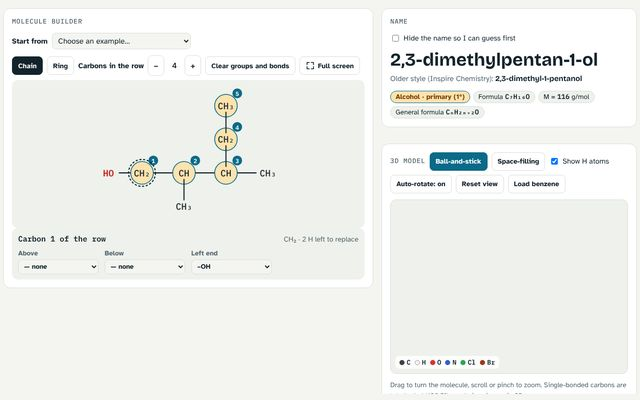
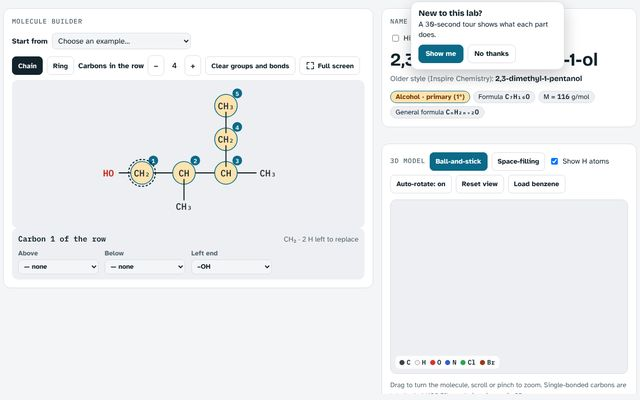
Organic Naming: Exercise screen, name a formula or draw a name, step by step in the lab
- Type a condensed formula (CH3CH(CH3)CH(OH)CH3) to name it, or a name (2-ethylbutane) to draw it; or pick any class structure (rings, benzene)
- Formula reader checks each carbon's H count; name reader handles new and older styles (but-2-ene, 2-butene, 2-methyl-2-butanol)
- Solve it in the lab: build it, family, longest chain (highlighted), numbering, groups, type the name and check; wrong names get the correct one and why

Claude-Session: https://claude.ai/code/session_01EJxk2nM6avKJzUWi38t4jE

Changed region(s): [[0.625, 0.0, 0.9062, 0.21]]

diff --git a/organic-naming-lab.html b/organic-naming-lab.html
@@ -77,6 +77,9 @@ p{margin:0}
 .tabp{display:flex;flex-direction:column;gap:16px}
 .lab{display:grid;grid-template-columns:minmax(0,1.45fr) minmax(0,1fr);gap:16px;align-items:start}
 @media (max-width:900px){.lab{grid-template-columns:minmax(0,1fr)}}
+.exhead{display:flex;align-items:center;justify-content:space-between;gap:12px;flex-wrap:wrap;margin-bottom:12px}.exhead h2{margin:0;font:800 1.4rem/1.2 var(--display)}
+.exin{display:flex;flex-direction:column;gap:6px;font-weight:700}.exin input{font:600 1.2rem var(--mono);padding:10px 12px;border:1.5px solid var(--line);border-radius:10px;background:var(--sunk);color:var(--ink);width:100%}
+#p-ex .card+.card{margin-top:14px}#exPick{max-width:100%}.exqs{margin:0;padding-left:1.4em;display:flex;flex-direction:column;gap:6px}#exMol{max-height:240px}
 .card{background:var(--surface);border:1px solid var(--line);border-radius:14px;padding:16px;display:flex;flex-direction:column;gap:12px;min-width:0}
 .card h3{font-family:var(--mono);font-size:.8125rem;font-weight:500;letter-spacing:.09em;text-transform:uppercase;color:var(--muted)}
 .caption{font-size:.87rem;color:var(--muted)}
@@ -471,9 +474,20 @@ body.fs-on{overflow:hidden}
     </div>
   </div></section>
 
+  <section class="screen solo" id="p-ex" data-screens="ex" hidden><div class="solo-in">
+    <div class="exhead"><h2>Exercise</h2><div class="row"><button class="btn" type="button" id="exEg">Example</button><button class="btn primary" type="button" id="exSolve"><svg viewBox="0 0 24 24" width="18" height="18" aria-hidden="true"><path d="M8 5l11 7-11 7z" fill="currentColor"/></svg>Solve it in the lab</button></div></div>
+    <div class="card">
+      <label class="exin"><span>Type a condensed formula to name it, or a name to draw it</span><input id="exIn" type="text" autocomplete="off" spellcheck="false" autocapitalize="off" value="CH3CH(CH3)CH(OH)CH3"></label>
+      <div class="chips" id="exEgs" aria-label="Examples"></div>
+      <select id="exPick" aria-label="Pick a structure from the class list"></select>
+      <div id="exMsg" class="verdict wait" aria-live="polite"></div>
+    </div>
+    <div class="card"><h3>Your exercise</h3><p id="exText" style="margin:0"></p><div class="molwrap"><svg class="mol" id="exMol" role="img" aria-label="The structure the lab read from your exercise"></svg></div><ol id="exQs" class="exqs"></ol></div>
+  </div></section>
+
 </main>
   <p class="vh">Names follow IUPAC rules as taught in school: the parent chain is the longest chain that contains the main functional group and any C=C or C≡C, numbered so that the main group (then the multiple bond, then the substituents) gets the lowest numbers; substituents are listed in alphabetical order, ignoring di-, tri- and tetra-. Both styles are shown and accepted, for example but-2-ene (current IUPAC) and 2-butene (older style used in Inspire Chemistry). Esters are named alkyl + alkanoate (propan-2-yl ethanoate), ethers as alkoxyalkanes (2-methoxypropane), and groups on nitrogen take the locant N (N-methylethanamide). In rings the ring is the parent (methylcyclohexane, 2-methylphenol); when a chain is longer than the ring, the older chain-as-parent name is also accepted, and benzene common names (toluene, o-, m-, p-xylene) are shown too. Test results follow Mr Khaled's identification table.</p>
-<script>window.LAB = { screens: [ { id: 'build', name: 'Build', tab: 'build' }, { id: 'quiz', name: 'Name it', tab: 'quiz' }, { id: 'iso', name: 'Isomers', tab: 'iso' }, { id: 'ester', name: 'Esters', tab: 'ester' }, { id: 'lab', name: 'Tests', tab: 'lab' } ], onScreen: function(){ setTimeout(function(){ window.dispatchEvent(new Event('resize')); }, 30); } };</script>
+<script>window.LAB = { screens: [ { id: 'build', name: 'Build', tab: 'build' }, { id: 'quiz', name: 'Name it', tab: 'quiz' }, { id: 'iso', name: 'Isomers', tab: 'iso' }, { id: 'ester', name: 'Esters', tab: 'ester' }, { id: 'lab', name: 'Tests', tab: 'lab' }, { id: 'ex', name: 'Exercise' } ], onScreen: function(){ setTimeout(function(){ window.dispatchEvent(new Event('resize')); }, 30); } };</script>
 
 
 <script>
@@ -1756,9 +1770,204 @@ document.querySelectorAll('.themeBtn').forEach(function(b){ b.addEventListener('
 }); });
 if (window.matchMedia) { try { window.matchMedia('(prefers-color-scheme: dark)').addEventListener('change', paintTheme); } catch (e) {} }
 
+
+/* =========== EXERCISE: name a formula, or draw a name, step by step in the lab (tour.js) =========== */
+var EXO = { mode: null, st: null, R: null, input: '', desc: [], read: [] };
+var exHi = false, bHiOld = build.opt.highlight;
+build.opt.highlight = function(){ return exHi || bHiOld(); };
+var SUBN = { methyl: 'CH3', ethyl: 'C2H5', propyl: 'C3H7', butyl: 'C4H9', isopropyl: 'iPr', fluoro: 'F', chloro: 'Cl', bromo: 'Br', iodo: 'I', hydroxy: 'OH', amino: 'NH2', oxo: 'O' };
+var GWORD = { CH3: 'a methyl group –CH₃', C2H5: 'an ethyl group –C₂H₅', C3H7: 'a propyl group –C₃H₇', C4H9: 'a butyl group –C₄H₉', iPr: 'an isopropyl group –CH(CH₃)₂', F: '–F', Cl: '–Cl', Br: '–Br', I: '–I', OH: '–OH', NH2: '–NH₂', O: '=O' };
+var MULTN = { di: 2, tri: 3, tetra: 4 };
+function exPlace(n, groups){
+  // groups: [[carbon 1..n, group]] → builder state slots; =O goes above, end groups on the ends first
+  var st = emptyState(n), err = null;
+  groups.forEach(function(g){
+    var i = g[0] - 1, G = g[1]; if (i < 0 || i >= n){ err = 'C' + g[0] + ' does not exist: the chain has ' + n + ' carbon' + (n > 1 ? 's' : '') + '.'; return; }
+    var s = st.slots[i], end = i === 0 ? 'l' : i === n - 1 ? 'r' : null, order = G === 'O' ? ['u', 'd', end] : end ? [end, 'u', 'd'] : ['u', 'd'];
+    if (n === 1) order = G === 'O' ? ['u', 'd', 'l', 'r'] : ['l', 'r', 'u', 'd'];
+    var k = order.filter(function(x){ return x && !s[x]; })[0];
+    if (!k){ err = 'Too many groups on C' + g[0] + ': a carbon has only 4 bonds.'; return; }
+    s[k] = G;
+  });
+  return { st: st, err: err };
+}
+function exParseName(raw){
+  var s = String(raw).toLowerCase().replace(/[‐-―−]/g, '-').replace(/\s+acid$/, 'acid').replace(/\s+/g, '').replace(/\((?:1-methylethyl)\)|1-methylethyl|\(propan-2-yl\)|propan-2-yl/g, 'isopropyl');
+  if (!s) return { err: 'Type a name or a formula.' };
+  if (/cyclo|benz|phen|anilin/.test(s)) return { err: 'For rings and benzene, pick the structure from the class list below.' };
+  var stems = /(meth|eth|prop|but|pent|hex|hept|oct|non|dec)/g, m, last = null;
+  while ((m = stems.exec(s))){ if (m[1] === 'non' && s[m.index - 1] === 'a') continue; if (!/^yl/.test(s.slice(m.index + m[1].length))) last = { i: m.index, stem: m[1] }; }
+  if (!last) return { err: 'I cannot find the parent chain (meth-, eth-, prop-, but-, …) in this name.' };
+  var n = STEM.indexOf(last.stem), pre = s.slice(0, last.i).replace(/-$/, ''), r = s.slice(last.i + last.stem.length), read = [];
+  // older style: "2-methyl-2-butanol", "2-butene": numbers left just before the parent belong to the ending
+  var pend = []; var pm = /(?:^|-)([\d,]+)$/.exec(pre); if (pm){ pend = pm[1].split(',').map(Number); pre = pre.slice(0, pre.length - pm[0].length); }
+  read.push(['<b>' + last.stem + '-</b>', n + ' carbons in the main chain']);
+  var i = 0, take = function(re){ var x = re.exec(r.slice(i)); if (x){ i += x[0].length; return x; } return null; }, D = [], T = [];
+  take(/^a(?=-[\d,]+-(?:di|tri))/);
+  while (true){
+    var lm = take(/^-?([\d,]+)-(?=(?:di|tri)?(?:en|yn))/), u = take(/^(di|tri)?(en|yn)/);
+    if (!u){ if (lm) return { err: 'Numbers must come before -ene or -yne.' }; break; }
+    var k = MULTN[u[1]] || 1, locs = lm ? lm[1].split(',').map(Number) : pend.length ? pend.splice(0, k) : k === 1 ? [1] : null;
+    if (!locs || locs.length !== k) return { err: 'The number of locants does not match ' + (u[1] || '') + u[2] + 'e.' };
+    locs.forEach(function(L){ (u[2] === 'en' ? D : T).push(L); });
+    read.push(['<b>-' + locs.join(',') + '-' + (u[1] || '') + u[2] + 'e</b>', (u[2] === 'en' ? 'C=C double bond' : 'C≡C triple bond') + (k > 1 ? 's' : '') + ' starting at C' + locs.join(' and C')]);
+  }
+  if (!D.length && !T.length && !take(/^an/)) return { err: 'I cannot read the ending “' + r + '”. Try e.g. butane, but-2-ene, butan-2-ol.' };
+  var groups = [], ePart = r.slice(i);
+  if (/^e$/.test(ePart) || ePart === ''){ if (!D.length && !T.length) read.push(['<b>-ane</b>', 'only single C–C bonds']); }
+  else {
+    i += (r.slice(i)[0] === 'e' && !/^e(ne|al)/.test(r.slice(i))) ? 1 : 0;
+    var sl = take(/^-?([\d,]+)-/), sf = take(/^(di|tri)?(ol|al|one|oicacid|amine)$/);
+    if (!sf) return { err: 'I cannot read the ending “' + r + '”.' };
+    var k2 = MULTN[sf[1]] || 1, kind = sf[2], locs2 = sl ? sl[1].split(',').map(Number) : pend.length ? pend.splice(0, k2) : null;
+    if (!locs2){ if (kind === 'al' || kind === 'oicacid') locs2 = k2 === 2 ? [1, n] : [1]; else if (kind === 'one') locs2 = k2 === 1 ? [2] : null; else locs2 = k2 === 1 ? [1] : k2 === 2 && n === 2 ? [1, 2] : null; }
+    if (!locs2 || locs2.length !== k2) return { err: 'Add the numbers for the -' + kind.replace('oicacid', 'oic acid') + ' groups.' };
+    var lab = { ol: ['–OH', 'alcohol'], al: ['–CHO', 'aldehyde'], one: ['C=O', 'ketone'], oicacid: ['–COOH', 'carboxylic acid'], amine: ['–NH₂', 'amine'] }[kind];
+    locs2.forEach(function(L){ if (kind === 'ol') groups.push([L, 'OH']); else if (kind === 'amine') groups.push([L, 'NH2']); else if (kind === 'one') groups.push([L, 'O']); else { groups.push([L, 'O']); if (kind === 'oicacid') groups.push([L, 'OH']); } });
+    read.push(['<b>-' + (sl || locs2.length > 1 ? locs2.join(',') + '-' : '') + (sf[1] || '') + kind.replace('oicacid', 'oic acid') + '</b>', lab[1] + ': ' + lab[0] + ' on C' + locs2.join(' and C')]);
+  }
+  if (pend.length) return { err: 'I do not know where the number ' + pend.join(',') + ' belongs.' };
+  // prefixes: "3-ethyl-2-methyl", "2,3-dimethyl", "1-bromo-2-chloro", "methyl"
+  if (pre){
+    var toks = pre.split('-'), loc = null;
+    for (var t = 0; t < toks.length; t++){
+      var tk = toks[t]; if (!tk) continue;
+      if (/^[\d,]+$/.test(tk)){ if (loc) return { err: 'Two sets of numbers in a row: ' + loc.join(',') + ' and ' + tk + '.' }; loc = tk.split(',').map(Number); continue; }
+      var j = 0;
+      while (j < tk.length){
+        var mm = /^(di|tri|tetra)?(methyl|ethyl|propyl|butyl|isopropyl|fluoro|chloro|bromo|iodo|hydroxy|amino|oxo)/.exec(tk.slice(j));
+        if (!mm) return { err: 'I do not know the group “' + tk.slice(j) + '”.' };
+        j += mm[0].length; var cnt = MULTN[mm[1]] || 1, L2 = loc || (cnt === 1 ? [/^(methyl|ethyl|propyl|butyl|isopropyl)$/.test(mm[2]) ? 2 : 1] : null); loc = null;
+        if (!L2 || L2.length !== cnt) return { err: (mm[1] || '') + mm[2] + ' needs ' + cnt + ' number' + (cnt > 1 ? 's' : '') + ' in front of it.' };
+        L2.forEach(function(L){ groups.push([L, SUBN[mm[2]]]); });
+        read.push(['<b>' + L2.join(',') + '-' + (mm[1] || '') + mm[2] + '</b>', GWORD[SUBN[mm[2]]] + ' on C' + L2.join(' and C')]);
+      }
+    }
+    if (loc) return { err: 'The numbers ' + loc.join(',') + ' have no group after them.' };
+  }
+  if (n < 1 || n > 10) return { err: 'The lab can draw chains of 1 to 10 carbons.' };
+  var bad = D.concat(T).filter(function(L){ return L < 1 || L >= n; }); if (bad.length) return { err: 'A multiple bond at C' + bad[0] + ' does not fit in a chain of ' + n + ' carbons.' };
+  var P = exPlace(n, groups); if (P.err) return { err: P.err };
+  D.forEach(function(L){ P.st.bonds[L - 1] = 2; }); T.forEach(function(L){ P.st.bonds[L - 1] = 3; });
+  var G = toGraph(P.st), over = G.atoms.slice(0, n).map(function(a, k){ return hCount(a) < 0 ? k + 1 : 0; }).filter(Boolean);
+  if (over.length) return { err: 'C' + over[0] + ' would have more than 4 bonds. Check the name.' };
+  return { st: P.st, read: read };
+}
+var BRANCH = { CH3: 'CH3', C2H5: 'C2H5', CH2CH3: 'C2H5', C3H7: 'C3H7', CH2CH2CH3: 'C3H7', 'CH(CH3)2': 'iPr', C4H9: 'C4H9', CH2CH2CH2CH3: 'C4H9', OH: 'OH', HO: 'OH', NH2: 'NH2', H2N: 'NH2', F: 'F', Cl: 'Cl', Br: 'Br', I: 'I', '=O': 'O', O: 'O' };
+function exParseFormula(raw){
+  var s = String(raw).replace(/[₀-₉]/g, function(c){ return '0123456789'['₀₁₂₃₄₅₆₇₈₉'.indexOf(c)]; }).replace(/\s+/g, '').replace(/[−–—‐]/g, '-').replace(/≡/g, '#').replace(/-/g, '');
+  var units = [], bonds = [], lead = [], i = 0, nextB = 1, err = null;
+  function paren(){ // "(…)" with an optional count after it
+    var depth = 0, j = i; for (; j < s.length; j++){ if (s[j] === '(') depth++; else if (s[j] === ')'){ depth--; if (!depth) break; } }
+    if (depth) { err = 'A bracket is not closed.'; return null; }
+    var inner = s.slice(i + 1, j); i = j + 1; var cm = /^\d+/.exec(s.slice(i)), c = cm ? +cm[0] : 1; if (cm) i += cm[0].length;
+    var g = BRANCH[inner]; if (!g){ err = 'I do not know the branch (' + inner + '). Use CH3, C2H5, CH(CH3)2, OH, Cl, NH2, =O …'; return null; }
+    var o = []; for (var k = 0; k < c; k++) o.push(g); return o;
+  }
+  function inline(){ // groups written right after a carbon: OH, Cl, Br3, NH2, O (C=O), OOH (COOH)
+    var x = s.slice(i), mm;
+    if ((mm = /^OOH/.exec(x))){ i += 3; return ['O', 'OH']; }
+    if ((mm = /^OH/.exec(x))){ i += 2; return ['OH']; }
+    if ((mm = /^NH2/.exec(x))){ i += 3; return ['NH2']; }
+    if ((mm = /^(Cl|Br|F|I)(\d*)/.exec(x))){ i += mm[0].length; var o = [], c = mm[2] ? +mm[2] : 1; for (var k = 0; k < c; k++) o.push(mm[1]); return o; }
+    if ((mm = /^O(?!H)/.exec(x))){ i += 1; return ['O']; }
+    return null;
+  }
+  while (i < s.length && !err){
+    var x = s.slice(i), mm;
+    if (x[0] === '=' || x[0] === '#'){ nextB = x[0] === '=' ? 2 : 3; i++; continue; }
+    if (x[0] === '(' ){ var g0 = paren(); if (!g0) break; if (units.length) units[units.length - 1].g = units[units.length - 1].g.concat(g0); else lead = lead.concat(g0); continue; }
+    if ((mm = /^C(?!l)(H(\d*))?/.exec(x))){
+      i += mm[0].length; if (units.length) bonds.push(nextB); else if (nextB !== 1){ err = 'A bond sign cannot come first.'; break; } nextB = 1;
+      var u = { h: mm[1] ? (mm[2] ? +mm[2] : 1) : 0, g: [] }; if (!units.length){ u.g = lead; lead = []; } units.push(u);
+      var more; while ((more = inline())) u.g = u.g.concat(more);
+      continue;
+    }
+    if (!units.length && (mm = /^(HO|H2N|Cl|Br|F|I|H)/.exec(x))){ i += mm[0].length; if (mm[1] === 'H') lead.push('H'); else lead.push(BRANCH[mm[1]]); continue; }
+    err = 'I cannot read “' + x.slice(0, 6) + '”. Write it like CH3CH(CH3)CH2OH.'; break;
+  }
+  if (err) return { err: err };
+  if (!units.length) return { err: 'There is no carbon in this formula.' };
+  if (units.length > 10) return { err: 'The lab can draw chains of up to 10 carbons.' };
+  var n = units.length, groups = [], extraH = [];
+  units.forEach(function(u, k){ u.g.forEach(function(G){ if (G === 'H') extraH.push(k); else groups.push([k + 1, G]); }); });
+  extraH.forEach(function(k){ units[k].h++; });
+  var P = exPlace(n, groups); if (P.err) return { err: P.err };
+  bonds.forEach(function(b, k){ P.st.bonds[k] = b; });
+  var G = toGraph(P.st);
+  for (var k = 0; k < n; k++){ var h = hCount(G.atoms[k]); if (h < 0) return { err: 'Carbon ' + (k + 1) + ' has more than 4 bonds. Check the formula.' }; if (h !== units[k].h) return { err: 'Carbon ' + (k + 1) + ' should be written ' + cLabel(h) + ' (it has ' + h + ' H), not ' + cLabel(units[k].h) + '. Check the formula.' }; }
+  var desc = ['<b>' + n + '</b> carbon' + (n > 1 ? 's' : '') + ' in the row'];
+  bonds.forEach(function(b, k){ if (b > 1) desc.push((b === 2 ? 'a double' : 'a triple') + ' bond between C' + (k + 1) + ' and C' + (k + 2)); });
+  groups.forEach(function(g){ if (!(g[1] === 'OH' && groups.some(function(h){ return h[0] === g[0] && h[1] === 'O'; }) && false)) desc.push(GWORD[g[1]] + ' on C' + g[0]); });
+  return { st: P.st, desc: desc };
+}
+var EXEG = ['CH3CH(CH3)CH2CH3', 'CH3CH2CH(OH)CH3', 'CH2=CHCH(CH3)2', 'CH3COCH2CH3', 'CH3CH(Cl)COOH', '2-methylbut-2-ene', '3-ethyl-2-methylpentane', '2-ethylbutane'];
+$('exEgs').innerHTML = EXEG.map(function(t){ return '<button class="btn small" type="button" data-eg="' + t + '">' + (/[A-Z]/.test(t) ? t.replace(/(\d)/g, function(d){ return sub(d); }) : t) + '</button>'; }).join('');
+$('exEgs').addEventListener('click', function(e){ var b = e.target.closest('[data-eg]'); if (!b) return; $('exIn').value = b.getAttribute('data-eg'); $('exPick').value = ''; exRead(); });
+(function(){ var html = '<option value="">Or pick a structure from the class list (rings and benzene too)…</option>';
+  Object.keys(PRESET_LABEL).forEach(function(c){ html += '<optgroup label="' + PRESET_LABEL[c] + '">' + BANK.map(function(b, i){ return b.cat === c ? '<option value="' + i + '">' + esc(formulaText(b.st)) + '</option>' : ''; }).join('') + '</optgroup>'; });
+  $('exPick').innerHTML = html; })();
+function formulaText(st){ var f = formula(toGraph(st)); return f.text + ' · ' + family(nameMolecule(st)).label; }
+$('exPick').addEventListener('change', function(){ if (this.value !== '') $('exIn').value = ''; exRead(); });
+$('exIn').addEventListener('input', function(){ if (this.value) $('exPick').value = ''; exRead(); });
+$('exIn').addEventListener('keydown', function(e){ if (e.key === 'Enter') exSolve(); });
+function descState(st){
+  var d = [];
+  if (st.ring) d.push(st.arom ? 'Shape: <b>Ring</b> → benzene' : 'Shape: <b>Ring</b> of ' + st.n + ' carbons');
+  else d.push('<b>' + st.n + '</b> carbon' + (st.n > 1 ? 's' : '') + ' in the row');
+  if (!st.arom) st.bonds.forEach(function(b, k){ if (b > 1) d.push((b === 2 ? 'a double' : 'a triple') + ' bond between C' + (k + 1) + ' and C' + ((k + 1) % st.n + 1)); });
+  st.slots.forEach(function(sl, k){ Object.keys(sl).forEach(function(x){ d.push(GWORD[sl[x]] + ' on C' + (k + 1)); }); });
+  return d;
+}
+function isFormula(t){ return /C/.test(t) && !/[a-z]{3,}/.test(t.replace(/Cl|Br/g, '')); }
+function exRead(){
+  var t = $('exIn').value.trim(), pk = $('exPick').value, msg = $('exMsg'), P;
+  EXO.mode = null;
+  if (pk !== ''){ P = { st: clone(BANK[+pk].st) }; P.desc = descState(P.st); EXO.mode = 'name'; }
+  else if (!t){ msg.className = 'verdict wait'; msg.textContent = 'Type a formula or a name, or pick one.'; $('exText').textContent = ''; $('exQs').innerHTML = ''; $('exMol').innerHTML = ''; return null; }
+  else if (isFormula(t)){ P = exParseFormula(t); EXO.mode = 'name'; }
+  else { P = exParseName(t); EXO.mode = 'draw'; }
+  if (P.err){ msg.className = 'verdict bad'; msg.textContent = P.err; $('exText').textContent = ''; $('exQs').innerHTML = ''; $('exMol').innerHTML = ''; EXO.mode = null; return null; }
+  EXO.st = P.st; EXO.R = nameMolecule(P.st); EXO.input = t; EXO.desc = P.desc; EXO.read = P.read || [];
+  var f = formula(EXO.R.G);
+  msg.className = 'verdict good'; msg.textContent = 'Ready. Press “Solve it in the lab”.';
+  if (EXO.mode === 'name'){ $('exText').innerHTML = t ? 'Name the compound <b class="mono">' + esc(t.replace(/(\d)/g, function(d){ return sub(d); })) + '</b> (molecular formula ' + f.text + '):' : 'Name this compound (' + f.text + '):'; $('exQs').innerHTML = '<li>What is its family (main functional group)?</li><li>Find the longest chain and number it.</li><li>Give its IUPAC name.</li>'; }
+  else { $('exText').innerHTML = 'Draw the structure of <b>' + esc(t) + '</b>:'; $('exQs').innerHTML = '<li>Draw (build) the structure.</li><li>Is the name correct by IUPAC rules? If not, give the correct name.</li><li>Write its molecular formula.</li>'; }
+  drawMol($('exMol'), P.st, {});
+  return EXO;
+}
+exRead();
+function exSolve(){
+  var X = exRead(); if (!X || !window.Tour) return;
+  var st = X.st, R = X.R, f = formula(R.G), fam = family(R), mode = X.mode, typedOk = mode === 'draw' && acceptedNames(st, R).indexOf(normAnswer(X.input)) >= 0;
+  var calc = function(t){ return '<div class="t-calc">' + t + '</div>'; }, mol = function(){ return document.querySelector('#bBuilder .molwrap'); };
+  var same = function(){ var a = nameMolecule(build.st); return a.iupac === R.iupac && formula(a.G).key === f.key; };
+  var go = function(){ var b = document.querySelector('.lg-nav [data-ph="build"]'); if (b && document.documentElement.getAttribute('data-screen') !== 'build') b.click(); };
+  var oldGuess = $('bGuess').checked, guess = function(on){ if ($('bGuess').checked !== on){ $('bGuess').checked = on; $('bGuess').dispatchEvent(new Event('change', { bubbles: true })); } };
+  var li = document.createElement('ol'); li.innerHTML = steps(R);
+  var parts = Array.prototype.map.call(li.children, function(x){ var t = x.querySelector('.t'), title = t ? t.textContent : ''; if (t) t.remove(); return [title, x.innerHTML]; });
+  var naming = parts.filter(function(p){ return p[0] !== 'Put it together'; });
+  var buildTxt = mode === 'draw' ? calc(X.read.map(function(r){ return r[0].replace(/<\/?b>/g, '') + '  →  ' + r[1]; }).join('\n')) + '<p>Read the name from the end: the parent chain first, then the ending, then the groups in front.</p>'
+    : X.desc ? (X.input ? '<p>Copy the formula into the builder:</p>' : '<p>Build this in the builder:</p>') + calc(X.desc.map(function(d){ return '• ' + d.replace(/<\/?b>/g, ''); }).join('\n')) : '<p>Build the structure in the builder.</p>';
+  var steps_ = [{ title: mode === 'draw' ? 'Draw it in the lab' : 'Name it in the lab', html: '<p>' + $('exText').innerHTML + '</p><p>' + (mode === 'draw' ? 'We read the name, build the structure, then check that the name follows the IUPAC rules.' : 'We build the structure, then name it step by step: family, longest chain, numbering, groups.') + '</p>',
+    onShow: function(){ go(); exHi = false; guess(mode === 'name'); build.set(M(1, '')); } },
+    { el: '#bBuilder', title: mode === 'draw' ? 'Build it from the name' : 'Build it', html: buildTxt + '<p class="note">Use + and − for the carbons, tap a bond to make it double or triple, tap a carbon to add a group.</p>', wait: same, doIt: function(){ build.set(st); }, done: 'Built: ' + f.text + '.', interactive: true }];
+  if (mode === 'name' || !typedOk){
+    if (mode === 'draw') steps_.push({ el: function(){ return $('bNameBox'); }, title: 'Is the name correct?', html: '<p>The structure is right, but <b>' + esc(X.input) + '</b> does not follow the IUPAC rules. The lab names it <b>' + esc(R.iupac) + '</b>. Let us see why.</p>', onShow: function(){ exHi = true; build.render(); } });
+    naming.forEach(function(p){ steps_.push({ el: mol, title: p[0], html: '<p>' + p[1] + '</p>', onShow: function(){ if (/Parent|Numbering|Substituents/.test(p[0])){ exHi = true; build.render(); } } }); });
+    if (mode === 'name') steps_.push({ el: '#bGuessBox', title: 'Your turn: type the name', interactive: true, html: '<p>Put it together: groups in alphabetical order with their numbers, then the parent chain and the ending. Type it and press <b>Check</b>.</p>',
+      wait: function(){ return bSolved; }, doIt: function(){ $('bAns').value = R.iupac; $('bCheck').click(); }, done: function(){ return 'Correct: ' + R.iupac + '.'; } });
+  } else steps_.push({ el: function(){ return $('bNameBox'); }, title: 'Is the name correct?', html: '<p>The lab names this structure <b>' + esc(R.iupac) + '</b>' + (R.inspire ? ' (older style ' + esc(R.inspire) + ')' : '') + ', so <b>' + esc(X.input) + '</b> is correct.</p>', onShow: function(){ exHi = true; build.render(); } });
+  steps_.push({ el: '#bFacts', title: 'Formula and family', html: '<p>Count the atoms in the structure: molecular formula <b>' + f.text + '</b>. Family: <b>' + fam.label + (fam.degree ? ', ' + fam.degree : '') + '</b>.</p>' });
+  steps_.push({ title: 'Your answers', html: calc('Name:     ' + R.iupac + (R.inspire ? '\nOlder style: ' + R.inspire : '') + (R.common ? '\nCommon name: ' + R.common : '') + '\nFormula:  ' + f.text + '\nFamily:   ' + fam.label + (mode === 'draw' && !typedOk ? '\n“' + X.input + '” is not the IUPAC name.' : '')) + '<p>Compare them with your own working.</p>' });
+  setTimeout(function(){ Tour.start(steps_, { label: 'Exercise', skipText: 'Stop', doneText: 'Finish', lazy: true, onEnd: function(){ exHi = false; guess(oldGuess); build.render(); } }); }, 80);
+}
+$('exSolve').addEventListener('click', exSolve);
+$('exEg').addEventListener('click', function(){ $('exIn').value = 'CH3CH(CH3)CH(OH)CH3'; $('exPick').value = ''; exRead(); });
 </script>
 
 <script src="https://cdnjs.cloudflare.com/ajax/libs/three.js/r128/three.min.js"></script>
 <script src="organic-3d.js"></script>
 <script>if (window.Organic3D) window.Organic3D.update(build.st);</script>
+<script src="tour.js" defer></script>
 <script src="lab-guide.js" defer></script>
